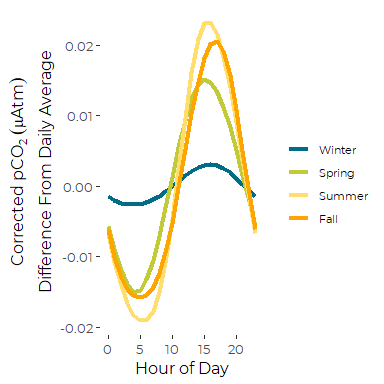
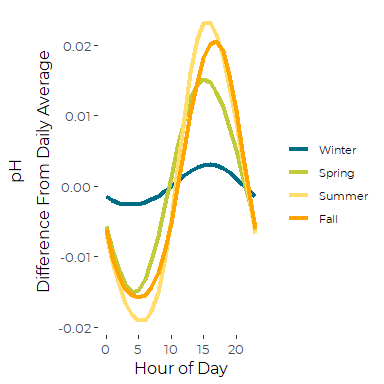
Correct error on figure legends for pH figures

diff --git a/Graphics/Revised_Graphics_Diurnal.md b/Graphics/Revised_Graphics_Diurnal.md
@@ -2,33 +2,33 @@ Analysis of Casco Bay OA data through 2018 – Revised Diurnal Graphics
 ================
 Curtis C. Bohlen, Casco Bay Estuary Partnership
 
-  - [WARNING: This Notebook Takes a Long Time to
+-   [WARNING: This Notebook Takes a Long Time to
     Run](#warning-this-notebook-takes-a-long-time-to-run)
-  - [Introduction](#introduction)
-  - [Load Libraries](#load-libraries)
-  - [Color Palette For Seasonal
+-   [Introduction](#introduction)
+-   [Load Libraries](#load-libraries)
+-   [Color Palette For Seasonal
     Displays](#color-palette-for-seasonal-displays)
-  - [Load Data](#load-data)
-      - [Establish Folder References](#establish-folder-references)
-      - [Dealing with Time Zones](#dealing-with-time-zones)
-      - [Read the Data](#read-the-data)
-      - [Confirm Timezone Corrections](#confirm-timezone-corrections)
-  - [pCO<sub>2</sub> Graphics (Temperature Corrected) by
+-   [Load Data](#load-data)
+    -   [Establish Folder References](#establish-folder-references)
+    -   [Dealing with Time Zones](#dealing-with-time-zones)
+    -   [Read the Data](#read-the-data)
+    -   [Confirm Timezone Corrections](#confirm-timezone-corrections)
+-   [pCO<sub>2</sub> Graphics (Temperature Corrected) by
     Season](#pco2-graphics-temperature-corrected-by-season)
-      - [Calculate pCO<sub>2</sub>
+    -   [Calculate pCO<sub>2</sub>
         Deviations](#calculate-pco2-deviations)
-      - [Run the GAMM](#run-the-gamm)
-      - [Generate Predictions from the
+    -   [Run the GAMM](#run-the-gamm)
+    -   [Generate Predictions from the
         Model](#generate-predictions-from-the-model)
-      - [Create Ribbon Graphic](#create-ribbon-graphic)
-      - [Alternate Graphic with Lines](#alternate-graphic-with-lines)
-  - [pH Graphics by Season](#ph-graphics-by-season)
-      - [Calculate pH Deviations](#calculate-ph-deviations)
-      - [Run the GAMM](#run-the-gamm-1)
-      - [Generate Predictions from the
+    -   [Create Ribbon Graphic](#create-ribbon-graphic)
+    -   [Alternate Graphic with Lines](#alternate-graphic-with-lines)
+-   [pH Graphics by Season](#ph-graphics-by-season)
+    -   [Calculate pH Deviations](#calculate-ph-deviations)
+    -   [Run the GAMM](#run-the-gamm-1)
+    -   [Generate Predictions from the
         Model](#generate-predictions-from-the-model-1)
-      - [Create Ribbon Graphic](#create-ribbon-graphic-1)
-      - [Alternate Graphic with Lines](#alternate-graphic-with-lines-1)
+    -   [Create Ribbon Graphic](#create-ribbon-graphic-1)
+    -   [Alternate Graphic with Lines](#alternate-graphic-with-lines-1)
 
 <img
     src="https://www.cascobayestuary.org/wp-content/uploads/2014/04/logo_sm.jpg"
@@ -66,14 +66,14 @@ greater detail at model selection and uncertainty.
 library(tidyverse)  # includes readr, readxl and lubridate
 ```
 
-    ## -- Attaching packages ---------------------------------------------------------------------- tidyverse 1.3.0 --
+    ## -- Attaching packages --------------------------------------- tidyverse 1.3.0 --
 
-    ## v ggplot2 3.3.2     v purrr   0.3.4
-    ## v tibble  3.0.3     v dplyr   1.0.2
+    ## v ggplot2 3.3.3     v purrr   0.3.4
+    ## v tibble  3.0.5     v dplyr   1.0.3
     ## v tidyr   1.1.2     v stringr 1.4.0
-    ## v readr   1.3.1     v forcats 0.5.0
+    ## v readr   1.4.0     v forcats 0.5.0
 
-    ## -- Conflicts ------------------------------------------------------------------------- tidyverse_conflicts() --
+    ## -- Conflicts ------------------------------------------ tidyverse_conflicts() --
     ## x dplyr::filter() masks stats::filter()
     ## x dplyr::lag()    masks stats::lag()
 
@@ -254,7 +254,7 @@ knitr::kable(all_data %>%
 ```
 
 | datetime            | datetime\_num | stdtime             | stdtime\_num | localtime           | localtime\_num |
-| :------------------ | ------------: | :------------------ | -----------: | :------------------ | -------------: |
+|:--------------------|--------------:|:--------------------|-------------:|:--------------------|---------------:|
 | 2015-04-23 15:00:00 |    1429801200 | 2015-04-23 10:00:00 |   1429801200 | 2015-04-23 11:00:00 |     1429801200 |
 | 2015-04-23 16:00:00 |    1429804800 | 2015-04-23 11:00:00 |   1429804800 | 2015-04-23 12:00:00 |     1429804800 |
 | 2015-04-23 17:00:00 |    1429808400 | 2015-04-23 12:00:00 |   1429808400 | 2015-04-23 13:00:00 |     1429808400 |
@@ -445,7 +445,7 @@ ggplot(newdat, aes(x=hh, y=pred, color = Season)) + #geom_line() +
   scale_fill_manual(values = season_palette, name = '') +
   
   xlab('Hour of Day') +
-  ylab(expression (atop(Corrected~pCO[2]~(mu*Atm), Difference~From~Daily~Average)))
+  ylab(expression (atop(pH, Difference~From~Daily~Average)))
 ```
 
 ![](Revised_Graphics_Diurnal_files/figure-gfm/ribbon_ph-1.png)<!-- -->
@@ -467,7 +467,7 @@ ggplot(newdat, aes(x=hh, y=pred, color = Season)) + #geom_line() +
   scale_color_manual(values = season_palette, name = '') +
   
   xlab('Hour of Day') +
-  ylab(expression (atop(Corrected~pCO[2]~(mu*Atm), Difference~From~Daily~Average)))
+  ylab(expression (atop(pH, Difference~From~Daily~Average)))
 ```
 
 ![](Revised_Graphics_Diurnal_files/figure-gfm/lines_ph-1.png)<!-- -->
